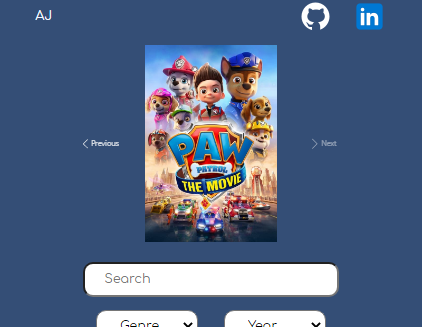
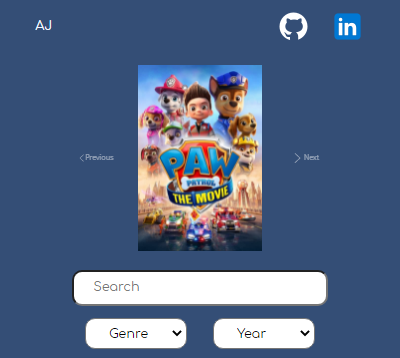
skills page demo

diff --git a/components/Projects/Item.js b/components/Projects/Item.js
@@ -1,16 +1,31 @@
 export default function ProjectItem(props) {
   return (
-    <div className='flex flex-col md:flex-row  mx-auto  justify-evenly  items-center py-10 sm:py-12 px-2 gap-5'>
+    <div
+      className='flex flex-col md:flex-row  mx-auto  justify-evenly  items-center py-10 sm:py-12 px-2 gap-5'
+    >
       <div
-        className={`justify-self-center col-span-1 ring-4 ring-[#98b6f6] ring-offset-2 p-1 order-last ${
+        className={`justify-self-center ring-4 ring-[#98b6f6] ring-offset-2 p-1 order-last ${
           props.imageLeft ? 'md:order-first' : 'md:order-last'
         }`}
         data-aos='fade-right'
       >
-        <img src={`../images/projects/${props.image}.png`} alt={props.title} />
+        <img
+          className='h-96'
+          src={`../images/projects/${props.image}.png`}
+          alt={props.title}
+        />
       </div>
       <div className='flex flex-col  gap-4 text-center ' data-aos='fade-left'>
-        <h1 className='text-light text-xl sm:text-3xl '>{props.title}</h1>
+        {props.indicator ? (
+          <div className='mx-auto indicator '>
+            <div className='indicator-item badge badge-primary !-top-2'>
+              {props.indicator}
+            </div>
+            <h1 className='text-light text-xl sm:text-3xl '>{props.title}</h1>
+          </div>
+        ) : (
+          <h1 className='text-light text-xl sm:text-3xl '>{props.title}</h1>
+        )}
         <hr
           className=' border-double border-b-4 border-[#98b6f6] border-opacity-50 '
           style={{ width: '40%', margin: 'auto' }}
@@ -27,27 +42,33 @@ export default function ProjectItem(props) {
           />
           <div className='flex flex-wrap gap-4 justify-center'>
             {props.features.map((f) => (
-              <div key={f} className='badge badge-lg text-light rounded-none'>{f}</div>
+              <div key={f} className='badge badge-lg text-light rounded-none'>
+                {f}
+              </div>
             ))}
           </div>
           <div className='flex flex-wrap gap-4 justify-center'>
             {props.technologies.map((t) => (
-              <div key={t} className='badge badge-lg text-light'>{t}</div>
+              <div key={t} className='badge badge-lg text-light'>
+                {t}
+              </div>
             ))}
           </div>
         </div>
 
         <div className='flex flex-wrap justify-center'>
-          <a target='_blank'
+          <a
+            target='_blank'
             href={props.github}
             className='btn btn-outline btn-primary m-4 p-2 px-6  ring-4 ring-indigo-500 sm:text-lg gap-2 order-first'
           >
             <p>Github</p>
           </a>
 
-          <a target='_blank'
+          <a
+            target='_blank'
             href={props.view}
-            className='btn btn-outline btn-primary m-4 p-2 px-6  ring-4 ring-indigo-500 sm:text-lg gap-2 order-2 xs:order-last'
+            className='btn btn-outline btn-primary m-4 p-2 px-6  ring-4 ring-indigo-500 sm:text-lg gap-2 order-2 '
           >
             <p>Open</p>
           </a>

diff --git a/components/Skills.js b/components/Skills.js
@@ -1,0 +1,54 @@
+export default function Skills() {
+  return (
+    <div
+      id='skills'
+      className='h_mobile-100 sm:min-h-screen bg-no-repeat bg-cover sm:bg-bottom overflow-hidden'
+      style={{ backgroundImage: `url(../background/3.svg)` }}
+    >
+      <h1 className='text-center font-black text-4xl p-2 sm:text-7xl mt-5 text-light animate__animated animate__backInDown'>
+        Skills
+      </h1>
+      <div className='max-w-screen-md mx-auto my-5'>
+        <div className='flex flex-col sm:flex-row flex-wrap items-center justify-center sm:justify-between px-10 py-5 gap-5'>
+          <h2 className='text-light text-xl sm:text-3xl'>Frontend</h2>
+          <div className='flex gap-5 text-6xl sm:text-7xl text-light'>
+            <div className='flex flex-col items-center'>
+              <i className='devicon-nextjs-plain '></i>
+              <p className=' text-lg sm:text-xl '>NextJS</p>
+            </div>
+            <div className='flex flex-col items-center'>
+              <i className='devicon-react-original '></i>
+              <p className=' text-lg sm:text-xl '>ReactJS</p>
+            </div>
+            <div className='flex flex-col items-center'>
+              <i className='devicon-javascript-plain'></i>
+              <p className=' text-lg sm:text-xl '>Javascript</p>
+            </div>
+          </div>
+        </div>
+        <div className='flex flex-col sm:flex-row flex-wrap items-center justify-center sm:justify-between px-10 py-5 gap-5'>
+          <h2 className='text-light text-xl sm:text-3xl'>Backend</h2>
+          <div className='flex gap-5 text-6xl sm:text-7xl text-light'>
+            <div className='flex flex-col items-center'>
+              <i className='devicon-nodejs-plain'></i>
+              <p className=' text-lg sm:text-xl '>NodeJS</p>
+            </div>
+            <div className='flex flex-col items-center'>
+              <i className='devicon-express-original'></i>
+              <p className=' text-lg sm:text-xl '>ExpressJS</p>
+            </div>
+          </div>
+        </div>
+        <div className='flex flex-col sm:flex-row flex-wrap items-center justify-center sm:justify-between px-10 py-5 gap-5'>
+          <h2 className='text-light text-xl sm:text-3xl'>Database</h2>
+          <div className='flex gap-5 text-6xl sm:text-7xl text-light'>
+            <div className='flex flex-col items-center'>
+              <i className='devicon-mongodb-plain'></i>
+              <p className=' text-lg sm:text-xl '>MongoDB</p>
+            </div>
+          </div>
+        </div>
+      </div>
+    </div>
+  )
+}

diff --git a/components/Projects/index.js b/components/Projects/index.js
@@ -15,13 +15,22 @@ export default function Projects() {
       </h1>
       <ProjectItem
         title='Class Room Management'
-        image='classathome'
+        image='classathome1'
         description='Manage your time, make studies more advanced. Easy to Access, Easy to Manage your teachers and students.'
         github='https://github.com/ajayda24/nodejs-master-completed'
         view='https://classathome.gq/'
         features={['Assignments', 'Chat', 'Video Call', 'Paid Events']}
         technologies={['NodeJS', 'ExpressJS', 'MongoDB', 'SocketIO']}
         imageLeft
+      />
+      <ProjectItem
+        title='Chain Reaction Multiplayer'
+        image='chainreaction'
+        description='Play Chain Reaction Online with your Friends. Developed by me and my classmate Thejus Manoj.'
+        github='https://github.com/ajayda24/emojireaction'
+        view='https://emojireaction.ajdaniel.gq/'
+        features={['Play Online', 'Multiplayer', 'Fun with Friends', 'Chat']}
+        technologies={['NodeJS', 'SocketIO', 'HTML', 'CSS']}
       />
       <ProjectItem
         title='AJ Movies Info'
@@ -37,7 +46,29 @@ export default function Projects() {
           'Filter',
         ]}
         technologies={['NextJS', 'ReactJS', 'TMDB API', 'CSS']}
+        imageLeft
       />
+      <ProjectItem
+        title='AJ Whatsapp'
+        image='ajwhatsapp'
+        description='I made a Whatsapp clone with some features of official Whatsapp'
+        github='https://github.com/ajayda24/aj-whatsapp-clone'
+        view='https://aj-whatsapp-clone.vercel.app/'
+        features={['Chat', 'Personal Chat', 'Group Chat']}
+        technologies={['NextJS', 'ReactJS', 'Firebase', 'CSS']}
+        indicator='coming soon...'
+      />
+      <ProjectItem
+        title='Other Projects'
+        image='otherprojects'
+        description='When I am studying these technologies I made so many simple projects.'
+        github='https://github.com/ajayda24/Personal-Website'
+        view='https://ajdaniel.gq/#projects'
+        features={['Maths Matrix', 'Picture Puzzle', 'Sharpen your Eyes']}
+        technologies={['HTML', 'CSS', 'JavaScript', 'NodeJS']}
+        imageLeft
+      />
+      <img src='../background/3-crop.png' alt='' width='100%' />
     </div>
   )
 }

diff --git a/pages/_app.js b/pages/_app.js
@@ -11,6 +11,12 @@ import { useEffect } from 'react'
 
 function MyApp({ Component, pageProps }) {
   useEffect(() => {AOS.init()}, [])
+  // window.addEventListener('resize', () => {
+  //   document.documentElement.style.setProperty(
+  //     '--vh',
+  //     window.innerHeight * 0.01 + 'px'
+  //   )
+  // })
   return (
     <>
       <Head>
@@ -18,14 +24,13 @@ function MyApp({ Component, pageProps }) {
           href='https://unpkg.com/boxicons@2.0.9/css/boxicons.min.css'
           rel='stylesheet'
         />
+        <link rel="stylesheet" href="https://cdn.jsdelivr.net/gh/devicons/devicon@v2.13.0/devicon.min.css"></link>
       </Head>
       <Script
         dangerouslySetInnerHTML={{
           __html: `
                 document.documentElement.style.setProperty('--vh', window.innerHeight * 0.01+'px');
-                window.addEventListener('resize', () => {
-                  document.documentElement.style.setProperty('--vh', window.innerHeight * 0.01+'px');
-                });
+                
           `,
         }}
       ></Script>

diff --git a/styles/global.css b/styles/global.css
@@ -5,22 +5,24 @@ html{
   scroll-behavior: smooth;
 }
 body{
-  background-color: #002233;
-   
+  background-color: rgb(0, 28, 48); 
 }
 
 .text-gradient{
   @apply bg-clip-text text-transparent bg-gradient-to-r from-white to-blue-600;
 }
 .text-light{
-  color: #98b6f6;
-  text-shadow: 0.1em 0.1em 0 black;
+  color: rgb(152, 182, 246);
+  text-shadow: 0.085em 0.085em 0 black;
 }
 .bg-light{
   background-color: #98b6f6;
 }
 .h_mobile-100{
   min-height: calc(var(--vh, 1vh) * 100);
+}
+.h_mobile-84{
+  min-height: calc(var(--vh, 1vh) * 84);
 }
 .dropdown-center .dropdown-content{
   transform: translateX(-50%);

diff --git a/pages/index.js b/pages/index.js
@@ -1,5 +1,6 @@
 import Home from '../components/Home'
 import Projects from '../components/Projects'
+import Skills from '../components/Skills'
 
 
 export default function Index() {
@@ -8,6 +9,7 @@ export default function Index() {
     <>
       <Home />
       <Projects />
+      <Skills />
     </>
   )
 }

diff --git a/tailwind.config.js b/tailwind.config.js
@@ -3,11 +3,7 @@ module.exports = {
   purge: ['./pages/**/*.{js,ts,jsx,tsx}', './components/**/*.{js,ts,jsx,tsx}'],
   darkMode: false, // or 'media' or 'class'
   theme: {
-    extend: {
-      screens: {
-        xs: '413px',
-      },
-    },
+    extend: {},
   },
   variants: {
     extend: {},
